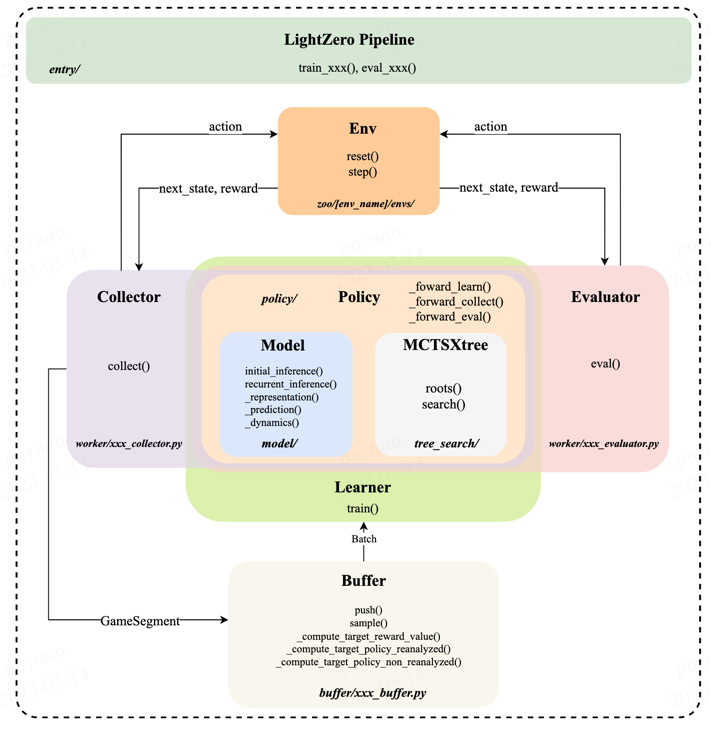
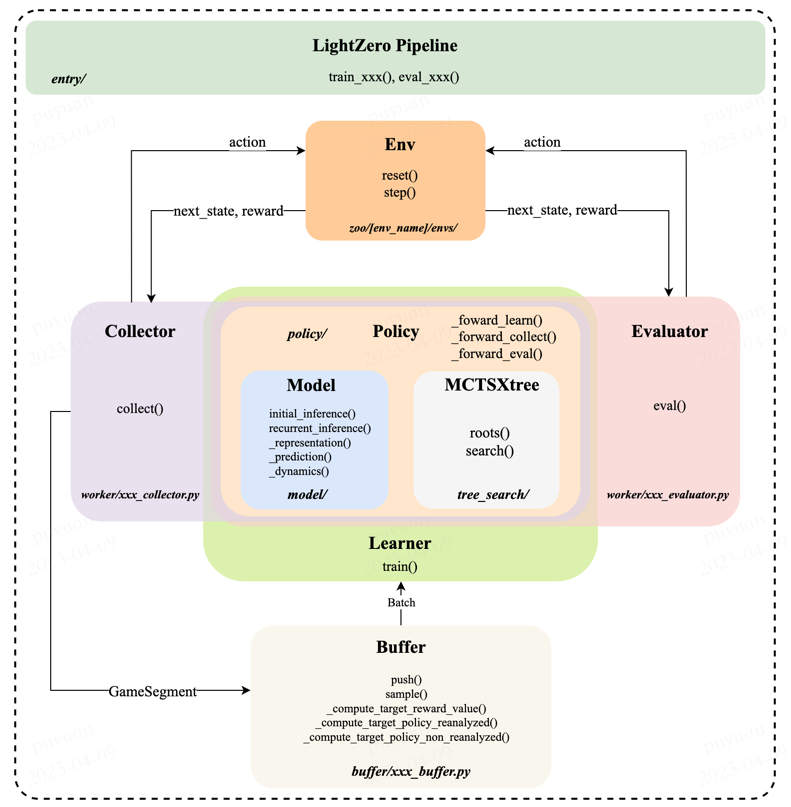
polish(pu): use svg figure in readme, set update_per_collect=500 by deafult in box2d envs

diff --git a/zoo/box2d/bipedalwalker/config/bipedalwalker_cont_sampled_efficientzero_config.py b/zoo/box2d/bipedalwalker/config/bipedalwalker_cont_sampled_efficientzero_config.py
@@ -9,7 +9,7 @@ evaluator_env_num = 3
 continuous_action_space = True
 K = 20  # num_of_sampled_actions
 num_simulations = 50
-update_per_collect = 200
+update_per_collect = 500
 batch_size = 256
 max_env_step = int(5e6)
 reanalyze_ratio = 0.
@@ -20,7 +20,6 @@ reanalyze_ratio = 0.
 bipedalwalker_cont_sampled_efficientzero_config = dict(
     exp_name=f'data_sez_ctree/bipedalwalker_cont_sampled_efficientzero_k{K}_ns{num_simulations}_upc{update_per_collect}_rr{reanalyze_ratio}_seed0',
     env=dict(
-        stop_value=int(1e6),
         env_name='BipedalWalker-v3',
         continuous=True,
         manually_discretization=False,
@@ -33,6 +32,7 @@ bipedalwalker_cont_sampled_efficientzero_config = dict(
         model=dict(
             observation_shape=24,
             action_space_size=4,
+            self_supervised_learning_loss=True,
             continuous_action_space=continuous_action_space,
             num_of_sampled_actions=K,
             sigma_type='conditioned',  # options={'conditioned', 'fixed'}

diff --git a/zoo/box2d/bipedalwalker/config/bipedalwalker_cont_disc_sampled_efficientzero_config.py b/zoo/box2d/bipedalwalker/config/bipedalwalker_cont_disc_sampled_efficientzero_config.py
@@ -10,7 +10,7 @@ continuous_action_space = False
 each_dim_disc_size = 4  # thus the total discrete action number is 4**4=256
 K = 20  # num_of_sampled_actions
 num_simulations = 50
-update_per_collect = 200
+update_per_collect = 500
 batch_size = 256
 max_env_step = int(5e6)
 reanalyze_ratio = 0.

diff --git a/zoo/box2d/bipedalwalker/config/bipedalwalker_cont_disc_efficientzero_config.py b/zoo/box2d/bipedalwalker/config/bipedalwalker_cont_disc_efficientzero_config.py
@@ -9,7 +9,7 @@ evaluator_env_num = 3
 continuous_action_space = False
 each_dim_disc_size = 4  # thus the total discrete action number is 4**4=256
 num_simulations = 100
-update_per_collect = 200
+update_per_collect = 500
 batch_size = 256
 max_env_step = int(5e6)
 reanalyze_ratio = 0.

diff --git a/zoo/box2d/lunarlander/config/lunarlander_cont_disc_sampled_efficientzero_config.py b/zoo/box2d/lunarlander/config/lunarlander_cont_disc_sampled_efficientzero_config.py
@@ -10,7 +10,7 @@ continuous_action_space = False
 each_dim_disc_size = 7
 K = 20  # num_of_sampled_actions
 num_simulations = 50
-update_per_collect = 200
+update_per_collect = 500
 batch_size = 256
 max_env_step = int(5e6)
 reanalyze_ratio = 0.

diff --git a/zoo/box2d/lunarlander/config/lunarlander_cont_sampled_efficientzero_config.py b/zoo/box2d/lunarlander/config/lunarlander_cont_sampled_efficientzero_config.py
@@ -9,7 +9,7 @@ evaluator_env_num = 3
 continuous_action_space = True
 K = 20  # num_of_sampled_actions
 num_simulations = 50
-update_per_collect = 200
+update_per_collect = 500
 batch_size = 256
 max_env_step = int(5e6)
 reanalyze_ratio = 0.

diff --git a/zoo/box2d/lunarlander/config/lunarlander_cont_disc_efficientzero_config.py b/zoo/box2d/lunarlander/config/lunarlander_cont_disc_efficientzero_config.py
@@ -12,7 +12,7 @@ n_episode = 8
 evaluator_env_num = 3
 each_dim_disc_size = 7
 num_simulations = 50
-update_per_collect = 200
+update_per_collect = 500
 batch_size = 256
 max_env_step = int(5e6)
 reanalyze_ratio = 0.

diff --git a/zoo/box2d/lunarlander/config/lunarlander_disc_efficientzero_config.py b/zoo/box2d/lunarlander/config/lunarlander_disc_efficientzero_config.py
@@ -7,7 +7,7 @@ collector_env_num = 8
 n_episode = 8
 evaluator_env_num = 3
 num_simulations = 50
-update_per_collect = 200
+update_per_collect = 500
 batch_size = 256
 max_env_step = int(5e6)
 reanalyze_ratio = 0.

diff --git a/zoo/box2d/lunarlander/config/lunarlander_disc_muzero_config.py b/zoo/box2d/lunarlander/config/lunarlander_disc_muzero_config.py
@@ -7,7 +7,7 @@ collector_env_num = 8
 n_episode = 8
 evaluator_env_num = 3
 num_simulations = 50
-update_per_collect = 200
+update_per_collect = 500
 batch_size = 256
 max_env_step = int(5e6)
 reanalyze_ratio = 0.

diff --git a/README.md b/README.md
@@ -1,3 +1,4 @@
+
 # LightZero
 
 [![Twitter](https://img.shields.io/twitter/url?style=social&url=https%3A%2F%2Ftwitter.com%2Fopendilab)](https://twitter.com/opendilab)
@@ -82,7 +83,7 @@ For further details, please refer to [Features](#features), [Framework Structure
 [comment]: <> (</p>)
 
 <p align="center">
-  <img src="assets/lightzero_pipeline.png" alt="Image Description 2" width="100%" height="auto" style="margin: 0 1%;">
+  <img src="assets/lightzero_pipeline.svg" alt="Image Description 2" width="50%" height="auto" style="margin: 0 1%;">
 </p>
 
 The above picture is the framework pipeline of LightZero. We briefly introduce the three core modules below: 
@@ -96,7 +97,7 @@ The above picture is the framework pipeline of LightZero. We briefly introduce t
 **MCTS**:
 ``MCTS`` defines the structure of the Monte Carlo search tree and the way it interacts with the Policy. The implementation of MCTS includes two languages: Python and C++, implemented in ``ptree`` and ``ctree``, respectively.
 
-For the file structure of LightZero, please refer to [lightzero_file_structure](https://github.com/opendilab/LightZero/blob/main/assets/lightzero_file_structure.png).
+For the file structure of LightZero, please refer to [lightzero_file_structure](https://github.com/opendilab/LightZero/blob/main/assets/lightzero_file_structure.svg).
 
 ### Integrated Algorithms
 LightZero is a library with a [PyTorch](https://pytorch.org/) implementation of MCTS algorithms (sometimes combined with cython and cpp), including:
@@ -113,19 +114,20 @@ The environments and algorithms currently supported by LightZero are shown in th
 | ------------- | --------- | ------ | ------------- | --------------------- |
 | Atari         | ---       | ✔    | ✔           | ✔                   |
 | tictactoe     | ✔       | ✔    | 🔒          | 🔒                  |
+| gomoku        | ✔       | ✔    | 🔒          | 🔒                  |
 | chess         | 🔒       | 🔒   | 🔒          | 🔒                  |
 | go            | 🔒       | 🔒   | 🔒          | 🔒                  |
-| gomoku        | ✔       | ✔    | 🔒          | 🔒                  |
 | lunarlander | ---       | ✔    | ✔           | ✔                   |
 | bipedalwalker   | ---       | ✔    | ✔           | ✔                   |
 | cartpole     | ---       | ✔    | ✔           | ✔                   |
 | pendulum      | ---       | ✔    | ✔           | ✔                   |
 
-<sup>(1): "---" means that this algorithm doesn't support this environment.</sup>
+<sup>(1): "✔" means that the corresponding item is finished and well-tested.</sup>
 
 <sup>(2): "🔒" means that the corresponding item is in the waitinglist (Work In Progress).</sup>
 
-<sup>(2): "✔" means that the corresponding item is finished and well-tested.</sup>
+<sup>(3): "---" means that this algorithm doesn't support this environment.</sup>
+
 
 ## Installation
 

diff --git a/README.zh.md b/README.zh.md
@@ -49,8 +49,7 @@
 ### 框架结构
 
 <p align="center">
-  <img src="assets/lightzero_file_structure.png" alt="Image Description 1" width="45%" height="auto" style="margin: 0 1%;">
-  <img src="assets/lightzero_pipeline.png" alt="Image Description 2" width="45%" height="auto" style="margin: 0 1%;">
+  <img src="assets/lightzero_pipeline.svg" alt="Image Description 2" width="50%" height="auto" style="margin: 0 1%;">
 </p>
 
 上图是 LightZero 的框架流程图。我们在下面简介其中的3个核心模块:
@@ -65,7 +64,7 @@
 
 ``MCTS`` 定义了蒙特卡洛搜索树的结构和与``Policy``的交互方式。``MCTS``的实现包括 python 和 cpp 两种，分别在``ptree``和``ctree``中实现。
 
-关于 LightZero 的文件结构，请参考 [lightzero_file_structure](https://github.com/opendilab/LightZero/blob/main/assets/lightzero_file_structure.png)。
+关于 LightZero 的文件结构，请参考 [lightzero_file_structure](https://github.com/opendilab/LightZero/blob/main/assets/lightzero_file_structure.svg)。
 
 ### 集成算法
 LightZero 是基于 [PyTorch](https://pytorch.org/) 实现的 MCTS 算法库，在 MCTS 的实现中也用到了 cython 和 cpp。同时，LightZero 的框架主要基于 [DI-engine](https://github.com/opendilab/DI-engine) 实现。目前 LightZero 中集成的算法包括：
@@ -80,14 +79,20 @@ LightZero 目前支持的环境及算法如下表所示：
 | ------------- | --------- | ------ | ------------- | --------------------- |
 | Atari         | ---       | ✔    | ✔           | ✔                   |
 | tictactoe     | ✔       | ✔    | 🔒          | 🔒                  |
+| gomoku        | ✔       | ✔    | 🔒          | 🔒                  |
 | chess         | 🔒       | 🔒   | 🔒          | 🔒                  |
 | go            | 🔒       | 🔒   | 🔒          | 🔒                  |
-| gomoku        | ✔       | ✔    | 🔒          | 🔒                  |
 | lunarlander | ---       | ✔    | ✔           | ✔                   |
 | bipedalwalker   | ---       | ✔    | ✔           | ✔                   |
 | cartpole     | ---       | ✔    | ✔           | ✔                   |
 | pendulum      | ---       | ✔    | ✔           | ✔                   |
 
+
+<sup>(1): "✔" 表示对应的项目已经完成并经过良好的测试。</sup>
+
+<sup>(2): "🔒" 表示对应的项目在等待列表中（正在进行中）。</sup>
+
+<sup>(3): "---" 表示该算法不支持此环境。</sup>
 
 ## 安装方法
 
